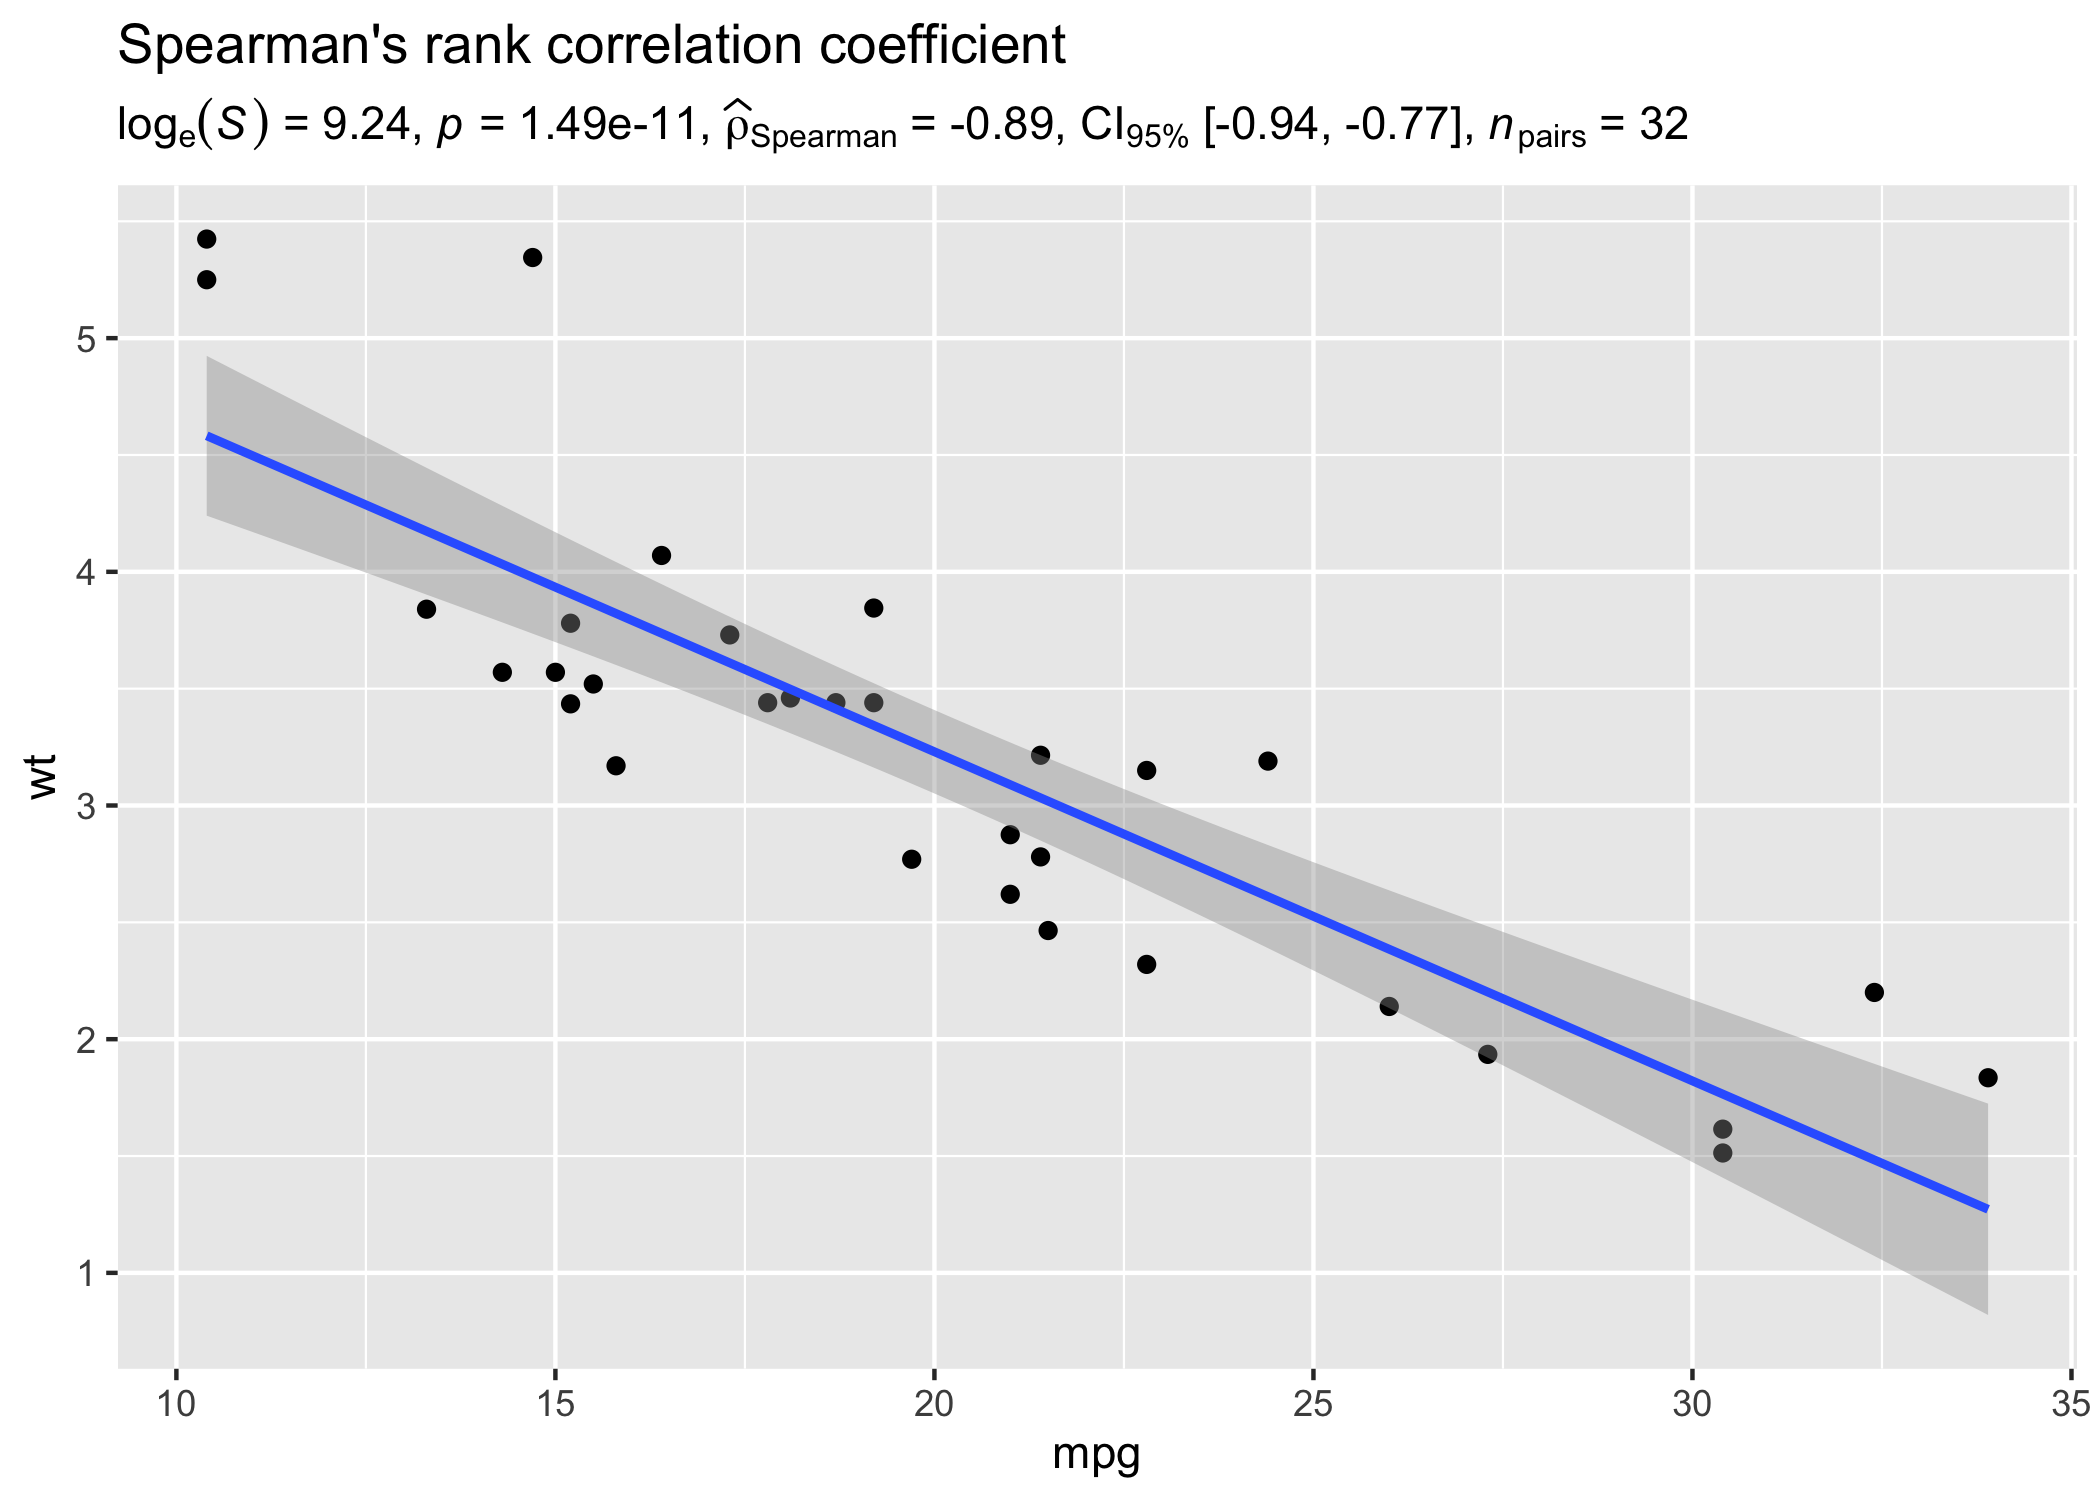
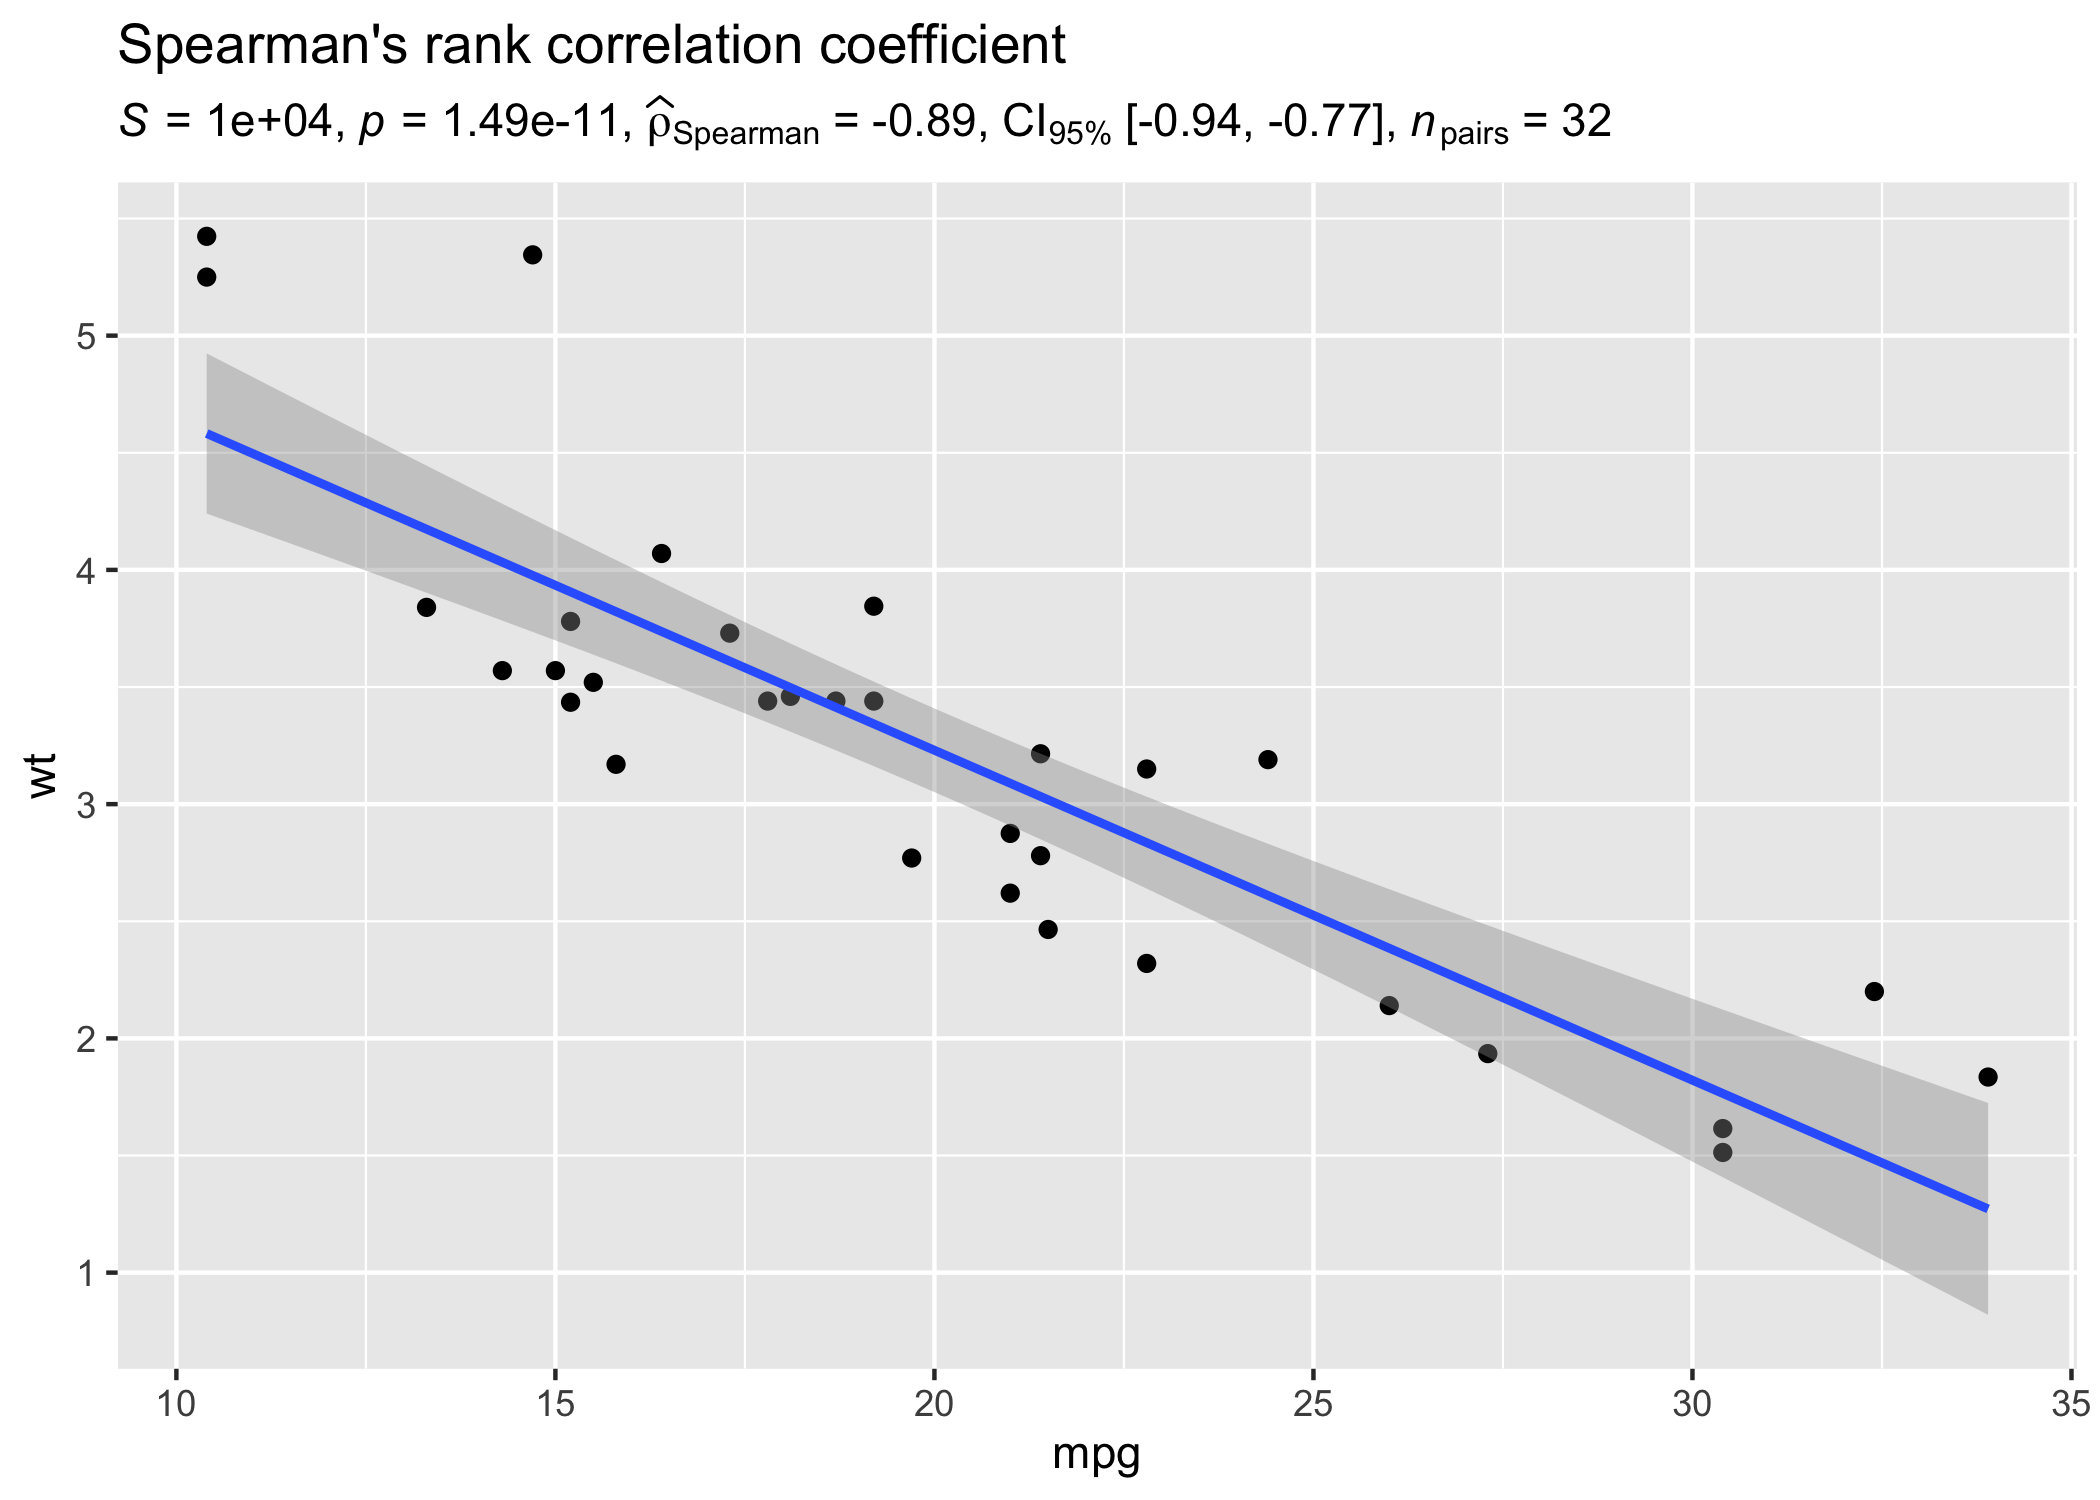
closes #116

diff --git a/tests/testthat/_snaps/corr_test.md b/tests/testthat/_snaps/corr_test.md
@@ -6,7 +6,7 @@
       # A tibble: 1 x 11
         parameter1 parameter2 estimate conf.level conf.low conf.high statistic
         <chr>      <chr>         <dbl>      <dbl>    <dbl>     <dbl>     <dbl>
-      1 rating     length        0.495      0.999    0.153     0.731      10.6
+      1 rating     length        0.495      0.999    0.153     0.731    41453.
            p.value method               n.obs effectsize          
              <dbl> <chr>                <int> <chr>               
       1 0.00000344 Spearman correlation    79 Spearman correlation
@@ -16,10 +16,10 @@
     Code
       df1$expression[[1]]
     Output
-      paste("log"["e"](italic("S")), " = ", "10.63231", ", ", italic("p"), 
-          " = ", "3.4438e-06", ", ", widehat(rho)["Spearman"], " = ", 
-          "0.49546", ", CI"["99.9%"], " [", "0.15344", ", ", "0.73147", 
-          "], ", italic("n")["pairs"], " = ", "79")
+      paste(italic("S"), " = ", "4.1e+04", ", ", italic("p"), " = ", 
+          "3.4438e-06", ", ", widehat(rho)["Spearman"], " = ", "0.49546", 
+          ", CI"["99.9%"], " [", "0.15344", ", ", "0.73147", "], ", 
+          italic("n")["pairs"], " = ", "79")
 
 ---
 
@@ -29,7 +29,7 @@
       # A tibble: 1 x 11
         parameter1 parameter2 estimate conf.level conf.low conf.high statistic
         <chr>      <chr>         <dbl>      <dbl>    <dbl>     <dbl>     <dbl>
-      1 wt         mpg          -0.886       0.95   -0.945    -0.774      9.24
+      1 wt         mpg          -0.886       0.95   -0.945    -0.774    10292.
          p.value method               n.obs effectsize          
            <dbl> <chr>                <int> <chr>               
       1 1.49e-11 Spearman correlation    32 Spearman correlation
@@ -39,10 +39,10 @@
     Code
       df2$expression[[1]]
     Output
-      paste("log"["e"](italic("S")), " = ", "9.24", ", ", italic("p"), 
-          " = ", "1.49e-11", ", ", widehat(rho)["Spearman"], " = ", 
-          "-0.89", ", CI"["95%"], " [", "-0.94", ", ", "-0.77", "], ", 
-          italic("n")["pairs"], " = ", "32")
+      paste(italic("S"), " = ", "1e+04", ", ", italic("p"), " = ", 
+          "1.49e-11", ", ", widehat(rho)["Spearman"], " = ", "-0.89", 
+          ", CI"["95%"], " [", "-0.94", ", ", "-0.77", "], ", italic("n")["pairs"], 
+          " = ", "32")
 
 # corr_test works - parametric
 

diff --git a/tests/testthat/_snaps/two_sample_nonparametric.md b/tests/testthat/_snaps/two_sample_nonparametric.md
@@ -6,7 +6,7 @@
       # A tibble: 1 x 12
         parameter1 parameter2 statistic   p.value method                 alternative
         <chr>      <chr>          <dbl>     <dbl> <chr>                  <chr>      
-      1 wt         am              5.44 0.0000435 Wilcoxon rank sum test two.sided  
+      1 wt         am              230. 0.0000435 Wilcoxon rank sum test two.sided  
         estimate conf.level conf.low conf.high effectsize        conf.method
            <dbl>      <dbl>    <dbl>     <dbl> <chr>             <chr>      
       1    0.866        0.9    0.749     0.931 r (rank biserial) normal     
@@ -16,8 +16,8 @@
     Code
       df$expression[[1]]
     Output
-      paste("log"["e"](italic("W")["Mann-Whitney"]), " = ", "5.440", 
-          ", ", italic("p"), " = ", "4.35e-05", ", ", widehat(italic("r"))["biserial"]^"rank", 
+      paste(italic("W")["Mann-Whitney"], " = ", "230.500", ", ", italic("p"), 
+          " = ", "4.35e-05", ", ", widehat(italic("r"))["biserial"]^"rank", 
           " = ", "0.866", ", CI"["90%"], " [", "0.749", ", ", "0.931", 
           "], ", italic("n")["obs"], " = ", "32")
 
@@ -29,7 +29,7 @@
       # A tibble: 1 x 12
         parameter1 parameter2 statistic p.value method                    alternative
         <chr>      <chr>          <dbl>   <dbl> <chr>                     <chr>      
-      1 length     type            2.30 0.00295 Wilcoxon signed rank test two.sided  
+      1 length     type              10 0.00295 Wilcoxon signed rank test two.sided  
         estimate conf.level conf.low conf.high effectsize        conf.method
            <dbl>      <dbl>    <dbl>     <dbl> <chr>             <chr>      
       1   -0.853       0.99   -0.964    -0.489 r (rank biserial) normal     
@@ -39,8 +39,8 @@
     Code
       df2$expression[[1]]
     Output
-      paste("log"["e"](italic("V")["Wilcoxon"]), " = ", "2.30259", 
-          ", ", italic("p"), " = ", "0.00295", ", ", widehat(italic("r"))["biserial"]^"rank", 
+      paste(italic("V")["Wilcoxon"], " = ", "10.00000", ", ", italic("p"), 
+          " = ", "0.00295", ", ", widehat(italic("r"))["biserial"]^"rank", 
           " = ", "-0.85294", ", CI"["99%"], " [", "-0.96399", ", ", 
           "-0.48865", "], ", italic("n")["pairs"], " = ", "16")
 

diff --git a/tests/testthat/_snaps/one_sample.md b/tests/testthat/_snaps/one_sample.md
@@ -52,7 +52,7 @@
       # A tibble: 1 x 10
         statistic p.value method                    alternative estimate conf.level
             <dbl>   <dbl> <chr>                     <chr>          <dbl>      <dbl>
-      1      6.62   0.323 Wilcoxon signed rank test two.sided     -0.149       0.95
+      1      754.   0.323 Wilcoxon signed rank test two.sided     -0.149       0.95
         conf.low conf.high effectsize        conf.method
            <dbl>     <dbl> <chr>             <chr>      
       1   -0.416     0.143 r (rank biserial) normal     
@@ -62,8 +62,8 @@
     Code
       df1$expression[[1]]
     Output
-      paste("log"["e"](italic("V")["Wilcoxon"]), " = ", "6.6247", ", ", 
-          italic("p"), " = ", "0.3227", ", ", widehat(italic("r"))["biserial"]^"rank", 
+      paste(italic("V")["Wilcoxon"], " = ", "753.5000", ", ", italic("p"), 
+          " = ", "0.3227", ", ", widehat(italic("r"))["biserial"]^"rank", 
           " = ", "-0.1486", ", CI"["95%"], " [", "-0.4162", ", ", "0.1427", 
           "], ", italic("n")["obs"], " = ", "60")
 
@@ -75,7 +75,7 @@
       # A tibble: 1 x 10
         statistic   p.value method                    alternative estimate conf.level
             <dbl>     <dbl> <chr>                     <chr>          <dbl>      <dbl>
-      1      5.57 0.0000125 Wilcoxon signed rank test two.sided     -0.672       0.95
+      1       262 0.0000125 Wilcoxon signed rank test two.sided     -0.672       0.95
         conf.low conf.high effectsize        conf.method
            <dbl>     <dbl> <chr>             <chr>      
       1   -0.806    -0.472 r (rank biserial) normal     
@@ -85,8 +85,8 @@
     Code
       df2$expression[[1]]
     Output
-      paste("log"["e"](italic("V")["Wilcoxon"]), " = ", "5.5683", ", ", 
-          italic("p"), " = ", "1.253e-05", ", ", widehat(italic("r"))["biserial"]^"rank", 
+      paste(italic("V")["Wilcoxon"], " = ", "262.0000", ", ", italic("p"), 
+          " = ", "1.253e-05", ", ", widehat(italic("r"))["biserial"]^"rank", 
           " = ", "-0.6717", ", CI"["95%"], " [", "-0.8058", ", ", "-0.4720", 
           "], ", italic("n")["obs"], " = ", "56")
 

diff --git a/README.md b/README.md
@@ -128,7 +128,7 @@ mtcars %>% oneway_anova(cyl, wt, type = "nonparametric")
 #> 1 wt         cyl             22.8        2 0.0000112
 #>   method                       estimate conf.level conf.low conf.high
 #>   <chr>                           <dbl>      <dbl>    <dbl>     <dbl>
-#> 1 Kruskal-Wallis rank sum test    0.736       0.95    0.608     0.847
+#> 1 Kruskal-Wallis rank sum test    0.736       0.95    0.540     0.840
 #>   effectsize      conf.method          conf.iterations expression
 #>   <chr>           <chr>                          <int> <list>    
 #> 1 Epsilon2 (rank) percentile bootstrap             100 <language>
@@ -140,10 +140,10 @@ mtcars %>% oneway_anova(cyl, wt, type = "robust")
 #> 1      12.7     2     12.2 0.00102
 #>   method                                            estimate conf.level conf.low
 #>   <chr>                                                <dbl>      <dbl>    <dbl>
-#> 1 A heteroscedastic one-way ANOVA for trimmed means     1.04       0.95    0.810
+#> 1 A heteroscedastic one-way ANOVA for trimmed means     1.04       0.95    0.833
 #>   conf.high effectsize                         expression
 #>       <dbl> <chr>                              <list>    
-#> 1      1.44 Explanatory measure of effect size <language>
+#> 1      1.46 Explanatory measure of effect size <language>
 ```
 
 All possible output dataframes from functions are tabulated here:

diff --git a/tests/testthat/_snaps/format_num.md b/tests/testthat/_snaps/format_num.md
@@ -1,0 +1,65 @@
+# format_num works
+
+    Code
+      list(format_num(1.234e-05), format_num(1.234e-05, TRUE), format_num(1.234e-05,
+        k = 8, TRUE), format_num(0.001, k = 4, TRUE), format_num(1e-04, k = 4, TRUE),
+      format_num(1e-04, k = 3, TRUE), format_num(1e-04, k = 3, FALSE), format_num(
+        0.00333, k = 1, TRUE))
+    Output
+      [[1]]
+      [1] "0.00"
+      
+      [[2]]
+      [1] "0.0"
+      
+      [[3]]
+      [1] "1.234e-05"
+      
+      [[4]]
+      [1] "0.0010"
+      
+      [[5]]
+      [1] "1e-04"
+      
+      [[6]]
+      [1] "1e-04"
+      
+      [[7]]
+      [1] "0.000"
+      
+      [[8]]
+      [1] "0.003"
+      
+
+---
+
+    Code
+      list(format_num(123), format_num(1234), format_num(1234, k = 3), format_num(
+        123445678, k = 4), format_num(123445678, k = 4), format_num(123445678, k = 3),
+      format_num(123445678, k = 3), format_num(123445678, k = 1))
+    Output
+      [[1]]
+      [1] "123.00"
+      
+      [[2]]
+      [1] "1.2e+03"
+      
+      [[3]]
+      [1] "1.2e+03"
+      
+      [[4]]
+      [1] "1.2e+08"
+      
+      [[5]]
+      [1] "1.2e+08"
+      
+      [[6]]
+      [1] "1.2e+08"
+      
+      [[7]]
+      [1] "1.2e+08"
+      
+      [[8]]
+      [1] "1.2e+08"
+      
+

diff --git a/NEWS.md b/NEWS.md
@@ -24,6 +24,13 @@ MAJOR CHANGES
   - The `tidy_model_effectsize()` function is no longer exported as it is
     helpful only for the internal workings of the package.
 
+  - Given that these values can be really high, the statistic values for
+    non-parametric tests were shown on a log scale, but this is a highly
+    non-standard practice that has caused a lot of confusion among users. In
+    light of this feedback, the functions no longer return these values on a log
+    scale but in a scientific notation to keep the statistical expressions
+    short.
+
 # statsExpressions 1.1.0
 
 MAJOR CHANGES

diff --git a/tests/testthat/_snaps/oneway_anova_robust.md b/tests/testthat/_snaps/oneway_anova_robust.md
@@ -20,9 +20,10 @@
       df1$expression[[1]]
     Output
       paste(italic("F")["trimmed-means"], "(", "2", ",", "18.97383", 
-          ") = ", "20.24946", ", ", italic("p"), " = ", "2e-05", ", ", 
-          widehat(xi), " = ", "0.85858", ", CI"["95%"], " [", "0.85268", 
-          ", ", "0.86448", "], ", italic("n")["obs"], " = ", "32")
+          ") = ", "20.24946", ", ", italic("p"), " = ", "1.9631e-05", 
+          ", ", widehat(xi), " = ", "0.85858", ", CI"["95%"], " [", 
+          "0.85268", ", ", "0.86448", "], ", italic("n")["obs"], " = ", 
+          "32")
 
 ---
 

diff --git a/tests/testthat/_snaps/oneway_anova_parametric.md b/tests/testthat/_snaps/oneway_anova_parametric.md
@@ -20,9 +20,10 @@
       df$expression[[1]]
     Output
       paste(italic("F")["Welch"], "(", "2", ",", "18.97383", ") = ", 
-          "20.24946", ", ", italic("p"), " = ", "2e-05", ", ", widehat(eta["p"]^2), 
-          " = ", "0.68097", ", CI"["95%"], " [", "0.37741", ", ", "0.81259", 
-          "], ", italic("n")["obs"], " = ", "32")
+          "20.24946", ", ", italic("p"), " = ", "1.9631e-05", ", ", 
+          widehat(eta["p"]^2), " = ", "0.68097", ", CI"["95%"], " [", 
+          "0.37741", ", ", "0.81259", "], ", italic("n")["obs"], " = ", 
+          "32")
 
 ---
 

diff --git a/tests/testthat/_snaps/tidy_model_expressions.md b/tests/testthat/_snaps/tidy_model_expressions.md
@@ -54,7 +54,7 @@
       3      Inf 1.45e- 2
         label                                                                         
         <chr>                                                                         
-      1 list(~widehat(italic(beta))=='-0.78', ~italic(z)=='-3.47', ~italic(p)=='0.001~
+      1 list(~widehat(italic(beta))=='-0.78', ~italic(z)=='-3.47', ~italic(p)=='5.14e~
       2 list(~widehat(italic(beta))=='2.29', ~italic(z)=='19.13', ~italic(p)=='1.54e-~
       3 list(~widehat(italic(beta))=='-0.56', ~italic(z)=='-2.44', ~italic(p)=='0.014~
 
